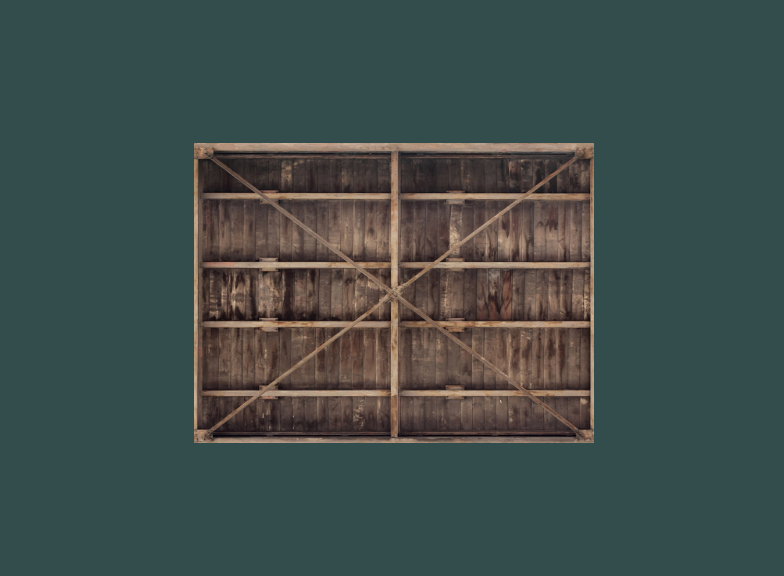
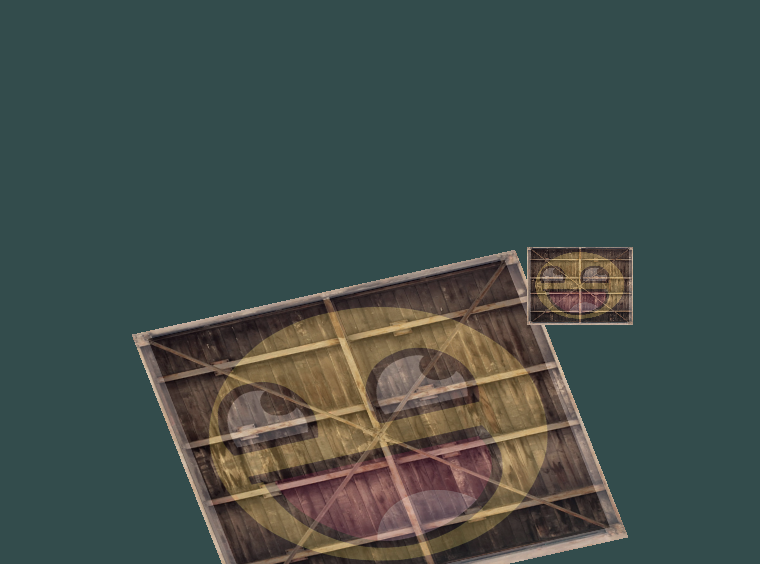
master

diff --git a/src/main.cpp b/src/main.cpp
@@ -7,7 +7,11 @@
  */
 // User Headers
 #include "shader.hpp"
+
+// third party headers
 #include "stb_image.h"
+#include <glm/gtc/matrix_transform.hpp>
+#include <glm/gtc/type_ptr.hpp>
 
 float visibility = 0.2f;
 
@@ -48,11 +52,11 @@ int main()
     // 4. set up vertex data (and buffer(s)) and configure vertex attributes
     // 4.1. set up verteices, indices, and texCoords
     float vertices[] = {
-        //---- 位置 ----    ---- 颜色 ----   - 纹理坐标 -
-        0.5f, 0.5f, 0.0f, 1.0f, 0.0f, 0.0f, 1.0f, 1.0f,   // 右上
-        0.5f, -0.5f, 0.0f, 0.0f, 1.0f, 0.0f, 1.0f, 0.0f,  // 右下
-        -0.5f, -0.5f, 0.0f, 0.0f, 0.0f, 1.0f, 0.0f, 0.0f, // 左下
-        -0.5f, 0.5f, 0.0f, 1.0f, 1.0f, 0.0f, 0.0f, 1.0f   // 左上
+        // positions          // texture coords
+        0.5f, 0.5f, 0.0f, 1.0f, 1.0f,   // top right
+        0.5f, -0.5f, 0.0f, 1.0f, 0.0f,  // bottom right
+        -0.5f, -0.5f, 0.0f, 0.0f, 0.0f, // bottom left
+        -0.5f, 0.5f, 0.0f, 0.0f, 1.0f   // top left
     };
     unsigned int indices[] = {
         // 注意索引从0开始!
@@ -76,14 +80,14 @@ int main()
     // 4.5. set vertice attributes
     // 4.5.1. set position attributes
     // 顶点属性(location)，顶点属性的数据大小，数据的类型，是否希望数据被标准化(Normalize)，步长(从这个属性第二次出现的地方到整个数组0位置之间有多少字节)，位置数据在缓冲中起始位置的偏移量(Offset)
-    glVertexAttribPointer(0, 3, GL_FLOAT, GL_FALSE, 8 * sizeof(float), (void *)0);
+    glVertexAttribPointer(0, 3, GL_FLOAT, GL_FALSE, 5 * sizeof(float), (void *)0);
     glEnableVertexAttribArray(0); // 以顶点属性位置值作为参数，启用顶点属性
     // 4.5.2. set color attributes
-    glVertexAttribPointer(1, 3, GL_FLOAT, GL_FALSE, 8 * sizeof(float), (void *)(3 * sizeof(float))); // location=1, offset=3*sizeof(float)
-    glEnableVertexAttribArray(1);                                                                    // 启用1号(location=1)属性
+    // glVertexAttribPointer(1, 2, GL_FLOAT, GL_FALSE, 5 * sizeof(float), (void *)(3 * sizeof(float))); // location=1, offset=3*sizeof(float)
+    // glEnableVertexAttribArray(1);                                                                    // 启用1号(location=1)属性
     // 4.5.3 set texCoords attributes
-    glVertexAttribPointer(2, 2, GL_FLOAT, GL_FALSE, 8 * sizeof(float), (void *)(6 * sizeof(float)));
-    glEnableVertexAttribArray(2);
+    glVertexAttribPointer(1, 2, GL_FLOAT, GL_FALSE, 5 * sizeof(float), (void *)(3 * sizeof(float)));
+    glEnableVertexAttribArray(1);
     // 4.6 解绑不用的对象
     glBindBuffer(GL_ARRAY_BUFFER, 0); // 解绑EBO（由于glVertexAttribPointer()函数已经把VBO登记好了）
     glBindVertexArray(0);             // 解绑VAO（需要用到VAO时再绑定）（在需要VAO时请不要解绑EBO）
@@ -154,6 +158,11 @@ int main()
         shaderProgram.use();
         shaderProgram.setFloat("visibility", visibility);
 
+        glm::mat4 trans(1.f);
+        trans = glm::translate(trans, glm::vec3(0.0f, -0.5f, 0.f));
+        trans = glm::rotate(trans, (float)glfwGetTime() / 10, glm::vec3(0.f, 0.f, 1.f));
+        shaderProgram.setMat4("transform", trans);
+
         // 6.2.3. 绑定纹理坐标
         // glUniform4f(vertexColorLocation, 0.0f, greenValue, 0.0f, 1.0f); // 根据索引改变当前program中目标uniform值
         glActiveTexture(GL_TEXTURE0);           // 在绑定纹理之前先激活纹理单元
@@ -165,6 +174,12 @@ int main()
         // shaderProgram.use();
         glBindVertexArray(VAO);                              // 绑定VAO
         glDrawElements(GL_TRIANGLES, 6, GL_UNSIGNED_INT, 0); // 绘制模式，打算绘制顶点的个数，索引类型，指定EBO中的偏移量
+
+        trans = glm::mat4(1.f);
+        trans = glm::translate(trans, glm::vec3(0.5f, 0.f, 0.f));
+        trans = glm::scale(trans, glm::vec3(glm::sin((float)glfwGetTime()), glm::sin((float)glfwGetTime()), glm::sin((float)glfwGetTime())));
+        shaderProgram.setMat4("transform", trans);
+        glDrawElements(GL_TRIANGLES, 6, GL_UNSIGNED_INT, 0);
 
         // 6.3. 检查并调用事件，交换缓冲
         glfwSwapBuffers(window); // window对象交换颜色缓冲（它是一个储存着GLFW窗口每一个像素颜色值的大缓冲），在这一迭代中被用来绘制，并且将作为输出显示在屏幕上

diff --git a/README.md b/README.md
@@ -15,13 +15,10 @@
 ## Result
 
 ![result1](/result/result1.png)
-![result2](/result/result2.png)
-![result3](/result/result3.png)
 
 ## Features
 
-1. 调整了代码结构
-2. 添加了着色器类(in shader.hpp)
+1. 完成了入门-变换
 
 ## Usage
 
